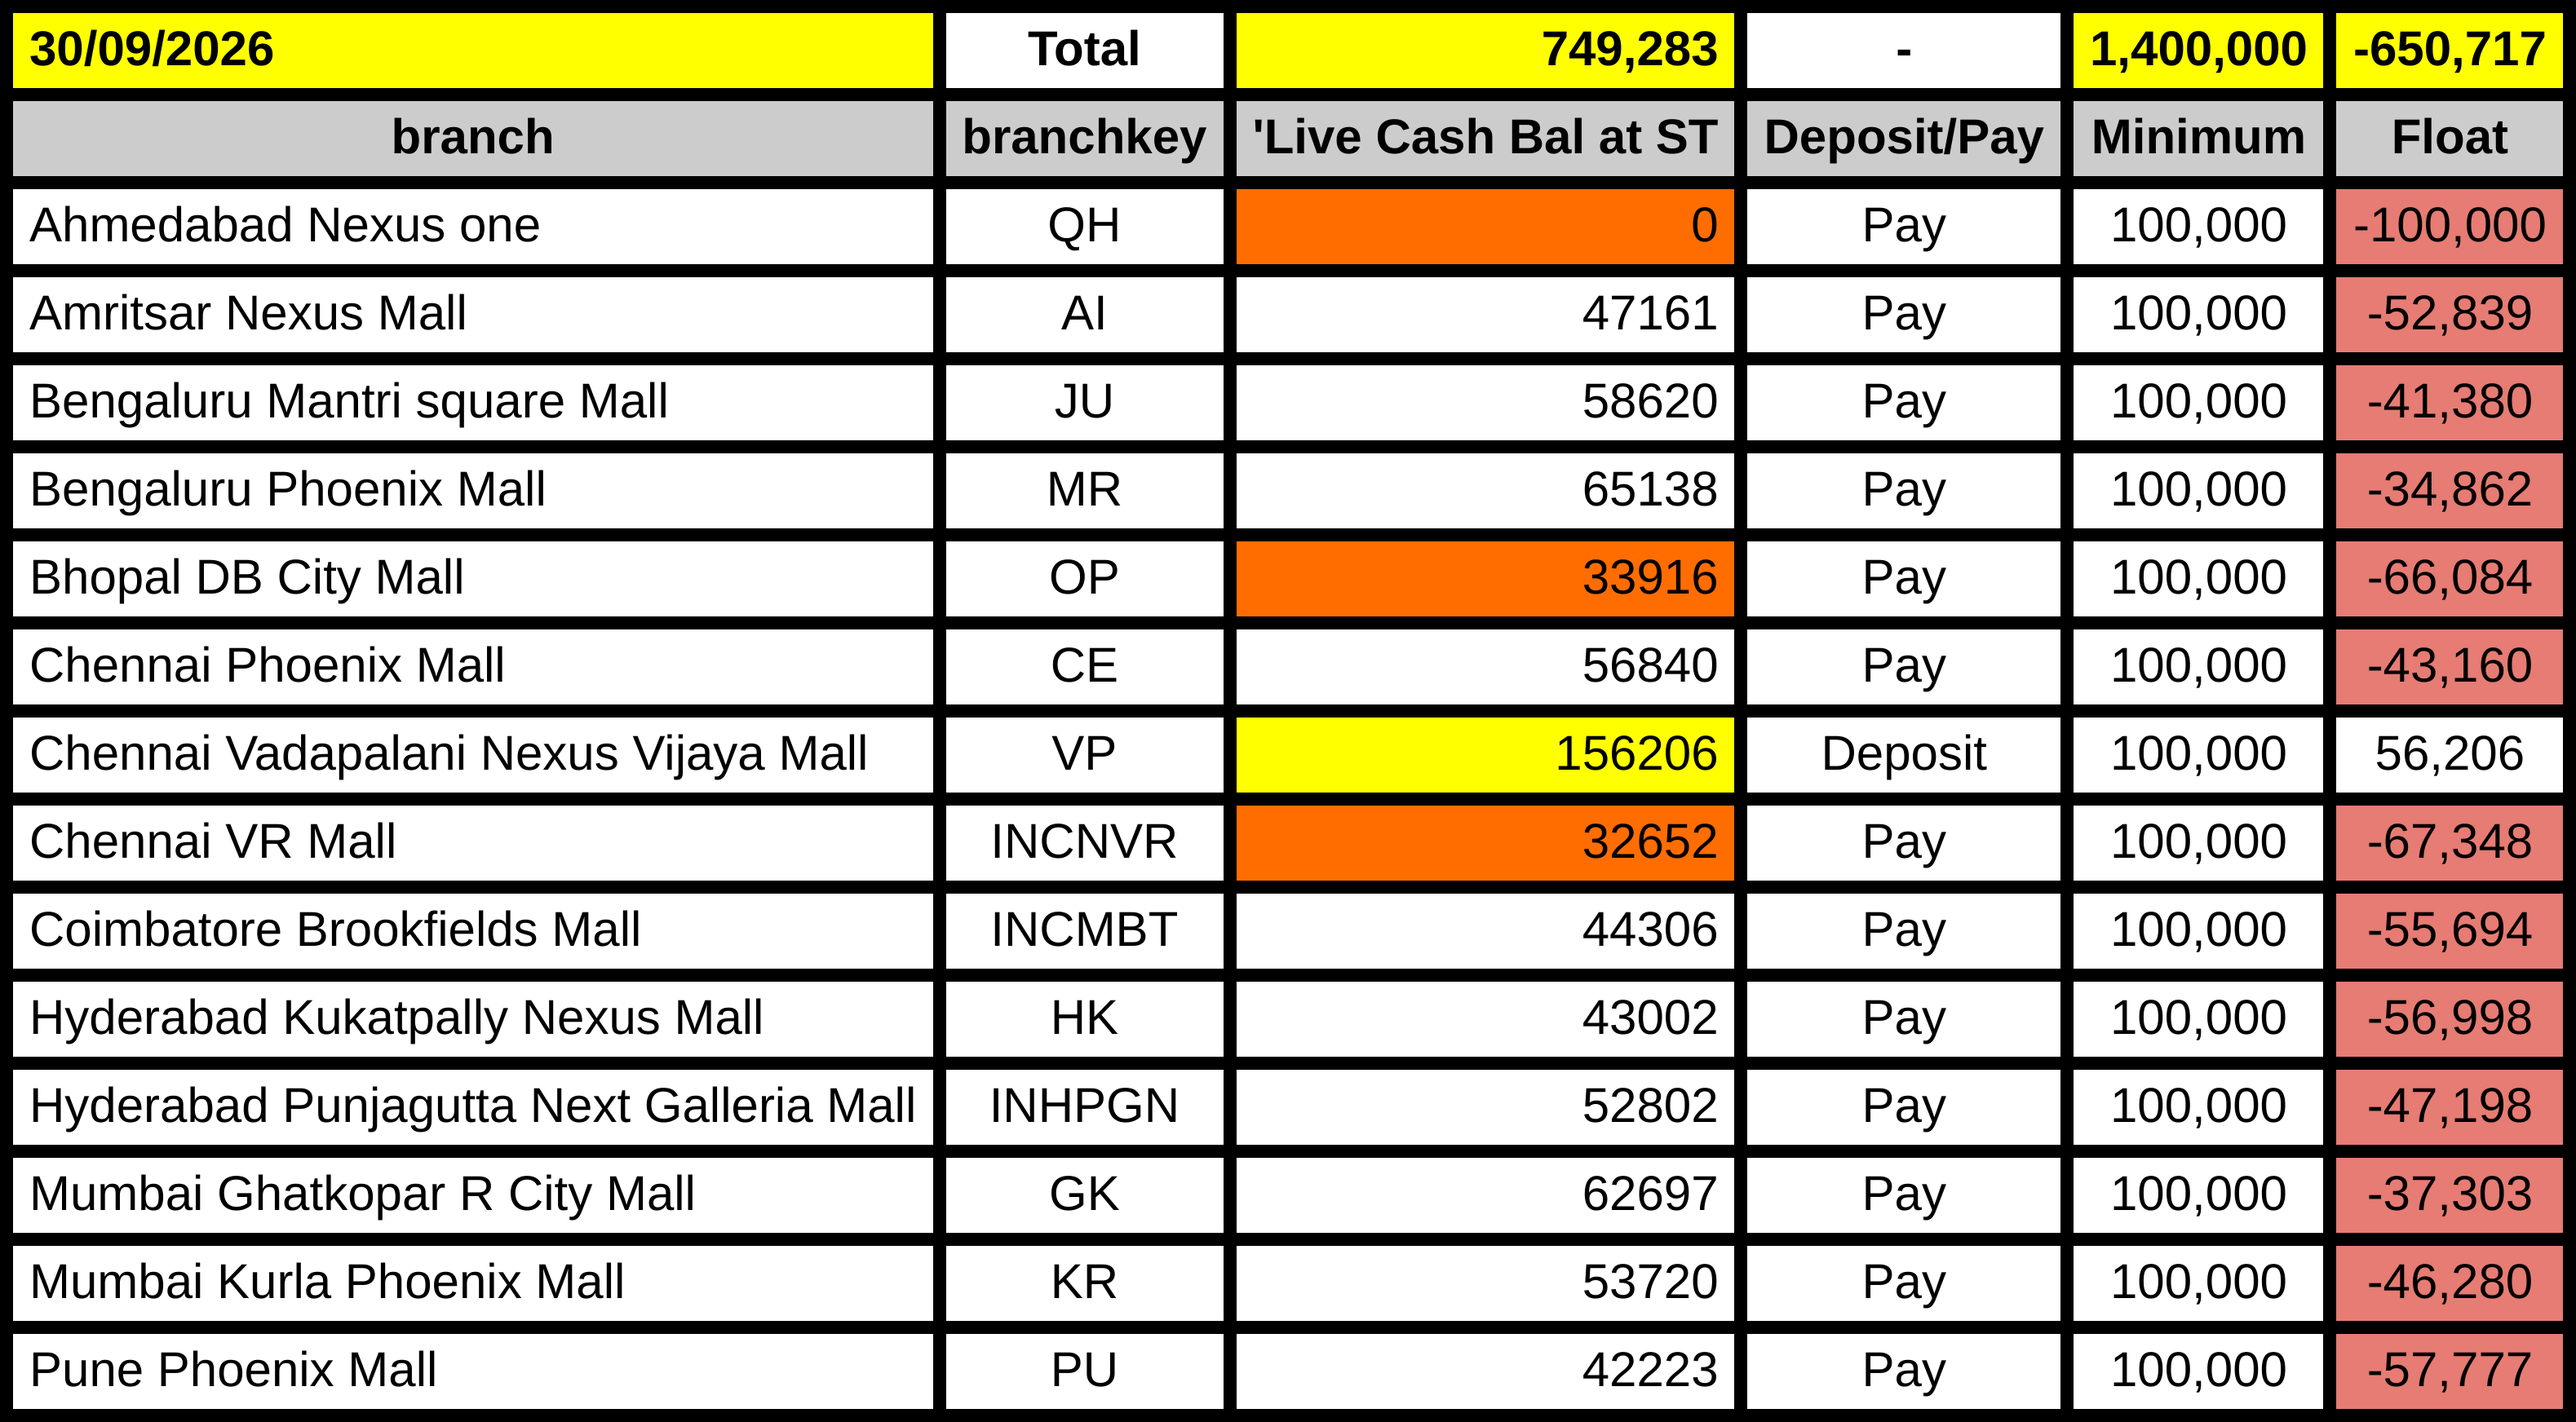
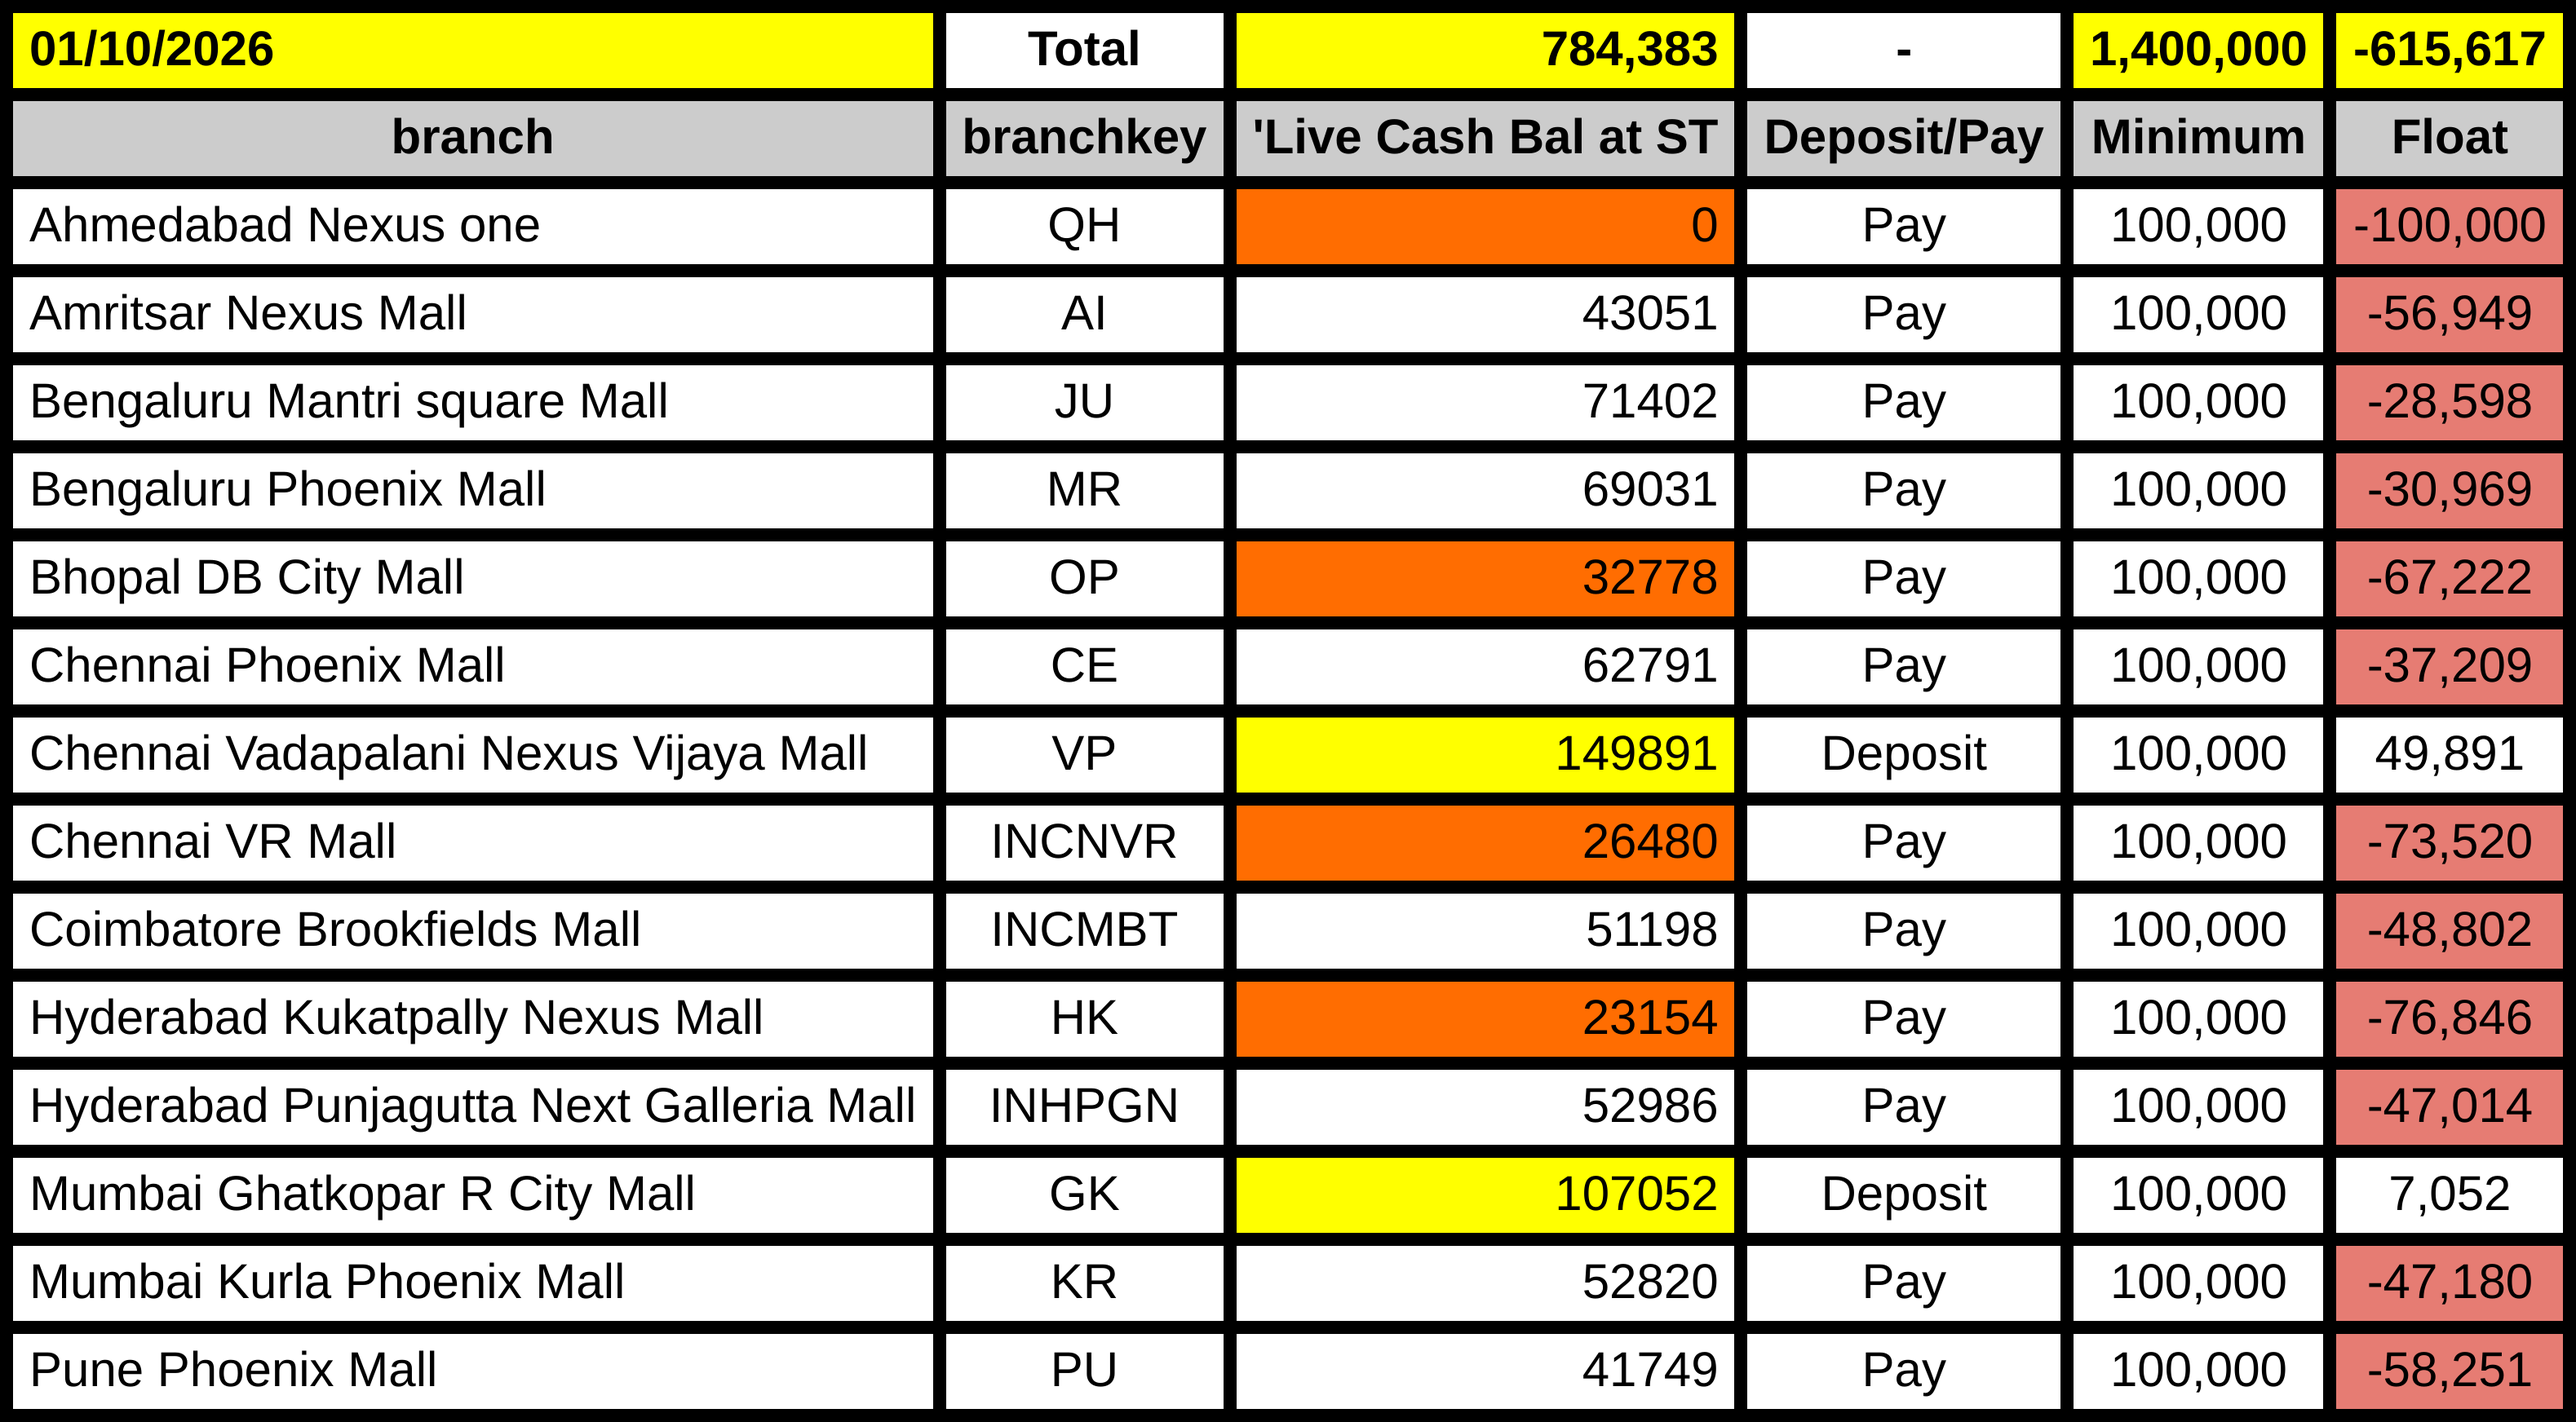
deploy: 1eb6ce62876c9d41067b4594acfaffc291ee4c8b

diff --git a/table.html b/table.html
@@ -21,7 +21,7 @@
           font-family: Arial, sans-serif;
           font-size: 30px;
           white-space: nowrap;
-        ">30/09/2026</td>
+        ">01/10/2026</td>
       
         <td style="
           background-color: #ffffff;
@@ -49,7 +49,7 @@
           font-family: Arial, sans-serif;
           font-size: 30px;
           white-space: nowrap;
-        ">749,283</td>
+        ">784,383</td>
       
         <td style="
           background-color: #ffffff;
@@ -91,7 +91,7 @@
           font-family: Arial, sans-serif;
           font-size: 30px;
           white-space: nowrap;
-        ">-650,717</td>
+        ">-615,617</td>
       </tr><tr>
         <td style="
           background-color: #cccccc;
@@ -301,7 +301,7 @@
           font-family: Arial, sans-serif;
           font-size: 30px;
           white-space: nowrap;
-        ">47161</td>
+        ">43051</td>
       
         <td style="
           background-color: #ffffff;
@@ -343,7 +343,7 @@
           font-family: Arial, sans-serif;
           font-size: 30px;
           white-space: nowrap;
-        ">-52,839</td>
+        ">-56,949</td>
       </tr><tr>
         <td style="
           background-color: #ffffff;
@@ -385,7 +385,7 @@
           font-family: Arial, sans-serif;
           font-size: 30px;
           white-space: nowrap;
-        ">58620</td>
+        ">71402</td>
       
         <td style="
           background-color: #ffffff;
@@ -427,7 +427,7 @@
           font-family: Arial, sans-serif;
           font-size: 30px;
           white-space: nowrap;
-        ">-41,380</td>
+        ">-28,598</td>
       </tr><tr>
         <td style="
           background-color: #ffffff;
@@ -469,7 +469,7 @@
           font-family: Arial, sans-serif;
           font-size: 30px;
           white-space: nowrap;
-        ">65138</td>
+        ">69031</td>
       
         <td style="
           background-color: #ffffff;
@@ -511,7 +511,7 @@
           font-family: Arial, sans-serif;
           font-size: 30px;
           white-space: nowrap;
-        ">-34,862</td>
+        ">-30,969</td>
       </tr><tr>
         <td style="
           background-color: #ffffff;
@@ -553,7 +553,7 @@
           font-family: Arial, sans-serif;
           font-size: 30px;
           white-space: nowrap;
-        ">33916</td>
+        ">32778</td>
       
         <td style="
           background-color: #ffffff;
@@ -595,7 +595,7 @@
           font-family: Arial, sans-serif;
           font-size: 30px;
           white-space: nowrap;
-        ">-66,084</td>
+        ">-67,222</td>
       </tr><tr>
         <td style="
           background-color: #ffffff;
@@ -637,7 +637,7 @@
           font-family: Arial, sans-serif;
           font-size: 30px;
           white-space: nowrap;
-        ">56840</td>
+        ">62791</td>
       
         <td style="
           background-color: #ffffff;
@@ -679,7 +679,7 @@
           font-family: Arial, sans-serif;
           font-size: 30px;
           white-space: nowrap;
-        ">-43,160</td>
+        ">-37,209</td>
       </tr><tr>
         <td style="
           background-color: #ffffff;
@@ -721,7 +721,7 @@
           font-family: Arial, sans-serif;
           font-size: 30px;
           white-space: nowrap;
-        ">156206</td>
+        ">149891</td>
       
         <td style="
           background-color: #ffffff;
@@ -763,7 +763,7 @@
           font-family: Arial, sans-serif;
           font-size: 30px;
           white-space: nowrap;
-        ">56,206</td>
+        ">49,891</td>
       </tr><tr>
         <td style="
           background-color: #ffffff;
@@ -805,7 +805,7 @@
           font-family: Arial, sans-serif;
           font-size: 30px;
           white-space: nowrap;
-        ">32652</td>
+        ">26480</td>
       
         <td style="
           background-color: #ffffff;
@@ -847,7 +847,7 @@
           font-family: Arial, sans-serif;
           font-size: 30px;
           white-space: nowrap;
-        ">-67,348</td>
+        ">-73,520</td>
       </tr><tr>
         <td style="
           background-color: #ffffff;
@@ -889,7 +889,7 @@
           font-family: Arial, sans-serif;
           font-size: 30px;
           white-space: nowrap;
-        ">44306</td>
+        ">51198</td>
       
         <td style="
           background-color: #ffffff;
@@ -931,7 +931,7 @@
           font-family: Arial, sans-serif;
           font-size: 30px;
           white-space: nowrap;
-        ">-55,694</td>
+        ">-48,802</td>
       </tr><tr>
         <td style="
           background-color: #ffffff;
@@ -962,7 +962,7 @@
         ">HK</td>
       
         <td style="
-          background-color: #ffffff;
+          background-color: #ff6d01;
           color: #000000;
           font-weight: normal;
           font-style: normal;
@@ -973,7 +973,7 @@
           font-family: Arial, sans-serif;
           font-size: 30px;
           white-space: nowrap;
-        ">43002</td>
+        ">23154</td>
       
         <td style="
           background-color: #ffffff;
@@ -1015,7 +1015,7 @@
           font-family: Arial, sans-serif;
           font-size: 30px;
           white-space: nowrap;
-        ">-56,998</td>
+        ">-76,846</td>
       </tr><tr>
         <td style="
           background-color: #ffffff;
@@ -1057,7 +1057,7 @@
           font-family: Arial, sans-serif;
           font-size: 30px;
           white-space: nowrap;
-        ">52802</td>
+        ">52986</td>
       
         <td style="
           background-color: #ffffff;
@@ -1099,7 +1099,7 @@
           font-family: Arial, sans-serif;
           font-size: 30px;
           white-space: nowrap;
-        ">-47,198</td>
+        ">-47,014</td>
       </tr><tr>
         <td style="
           background-color: #ffffff;
@@ -1130,7 +1130,7 @@
         ">GK</td>
       
         <td style="
-          background-color: #ffffff;
+          background-color: #ffff00;
           color: #000000;
           font-weight: normal;
           font-style: normal;
@@ -1141,7 +1141,7 @@
           font-family: Arial, sans-serif;
           font-size: 30px;
           white-space: nowrap;
-        ">62697</td>
+        ">107052</td>
       
         <td style="
           background-color: #ffffff;
@@ -1155,7 +1155,7 @@
           font-family: Arial, sans-serif;
           font-size: 30px;
           white-space: nowrap;
-        ">Pay</td>
+        ">Deposit</td>
       
         <td style="
           background-color: #ffffff;
@@ -1172,7 +1172,7 @@
         ">100,000</td>
       
         <td style="
-          background-color: #e67c73;
+          background-color: #ffffff;
           color: #000000;
           font-weight: normal;
           font-style: normal;
@@ -1183,7 +1183,7 @@
           font-family: Arial, sans-serif;
           font-size: 30px;
           white-space: nowrap;
-        ">-37,303</td>
+        ">7,052</td>
       </tr><tr>
         <td style="
           background-color: #ffffff;
@@ -1225,7 +1225,7 @@
           font-family: Arial, sans-serif;
           font-size: 30px;
           white-space: nowrap;
-        ">53720</td>
+        ">52820</td>
       
         <td style="
           background-color: #ffffff;
@@ -1267,7 +1267,7 @@
           font-family: Arial, sans-serif;
           font-size: 30px;
           white-space: nowrap;
-        ">-46,280</td>
+        ">-47,180</td>
       </tr><tr>
         <td style="
           background-color: #ffffff;
@@ -1309,7 +1309,7 @@
           font-family: Arial, sans-serif;
           font-size: 30px;
           white-space: nowrap;
-        ">42223</td>
+        ">41749</td>
       
         <td style="
           background-color: #ffffff;
@@ -1351,7 +1351,7 @@
           font-family: Arial, sans-serif;
           font-size: 30px;
           white-space: nowrap;
-        ">-57,777</td>
+        ">-58,251</td>
       </tr>
   </table>
 </body>
